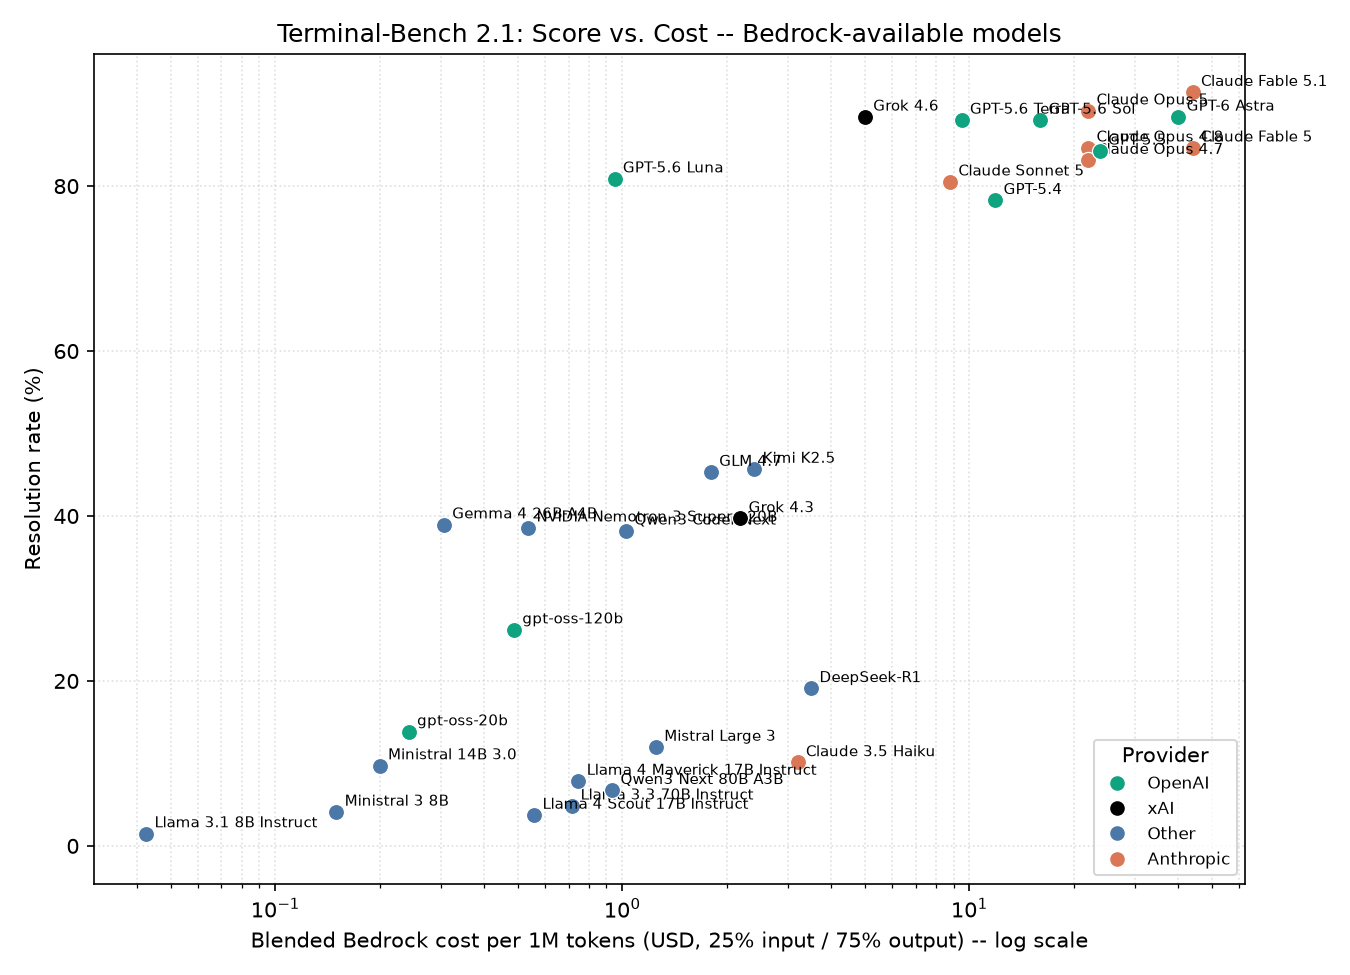
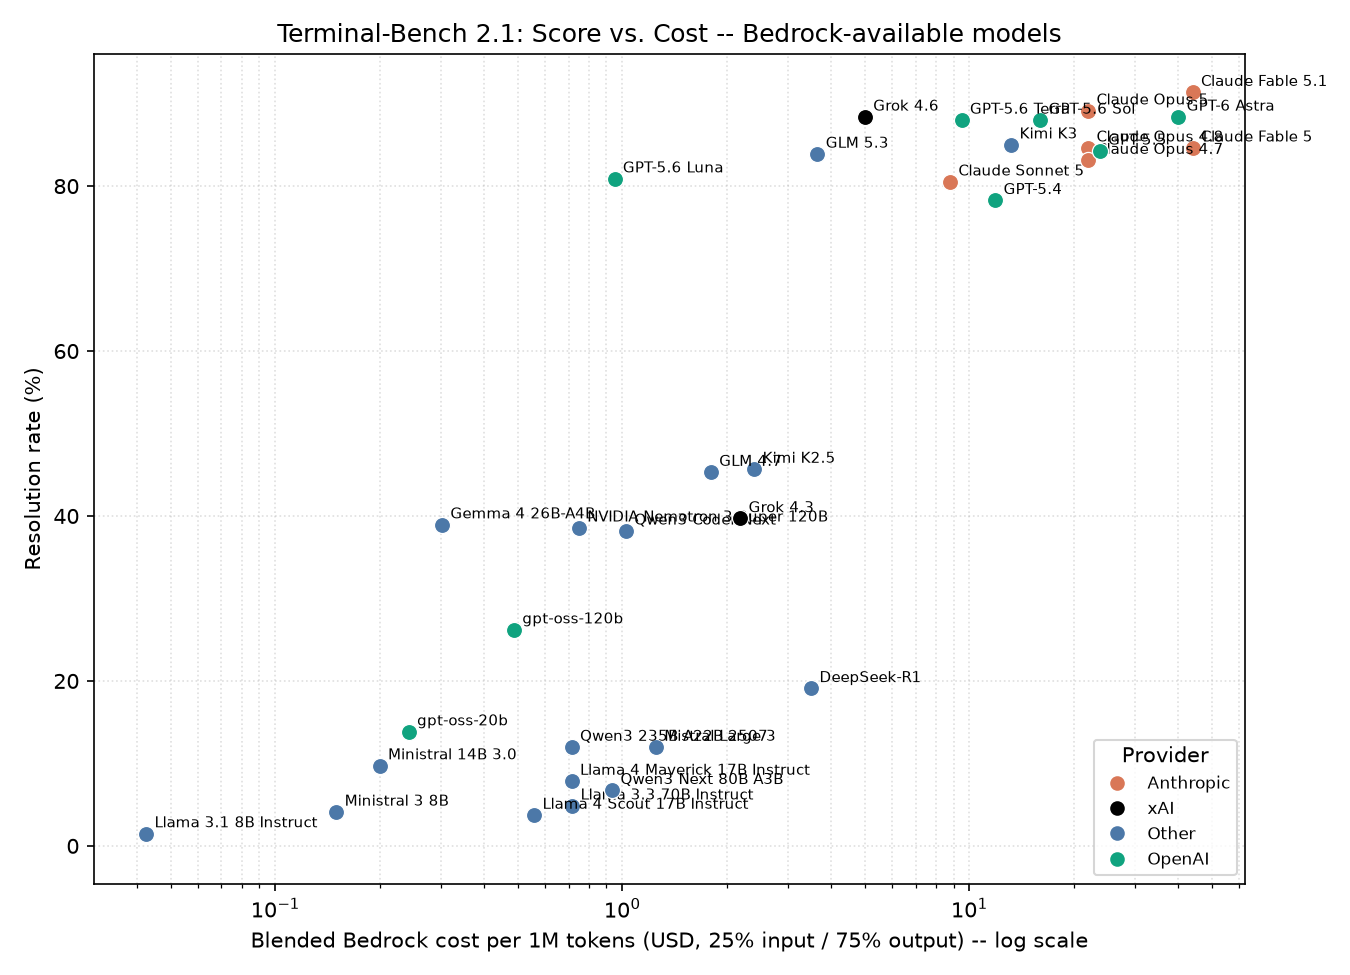
AI models: Update benchmark figs.

diff --git a/README.md b/README.md
@@ -154,6 +154,37 @@ mqdel --queued --dry-run
 mqdel --all --dry-run
 ```
 
+# mqinteractive
+
+Start an interactive PBS session with `mqinteractive` (8 CPUs, 32GB RAM),
+`mqinteractive half` (4 CPUs, 16GB RAM), or `mqinteractive gpu`.
+
+If Codex arrow keys insert text or mouse movements insert characters, run
+Codex inside `tmux` **after entering the interactive job**:
+
+```bash
+mqinteractive half
+# Once the compute-node shell opens:
+tmux new-session -c "$PWD" 'codex'
+```
+
+PBS interactive input can split an escape sequence across reads. On Aquarius,
+a single Up key (`ESC [ A`) arrived as `ESC`, then `[ A` about 0.6 ms later.
+Codex 0.161.0 interpreted a Left key as literal `[D` and a mouse-motion report
+as literal `[<35;10;10M`. Running Codex inside tmux restored cursor movement
+and prevented mouse reports from entering the prompt in the same PBS job.
+`--no-alt-screen` alone did not fix the problem.
+
+If Codex's sandbox also fails with a permission error creating its temporary
+directory, give Codex a writable temporary directory before starting it:
+
+```bash
+mkdir -p .tmp
+tmux new-session -c "$PWD" 'TMPDIR="$PWD/.tmp" codex'
+```
+
+Exit Codex when finished, then exit the PBS shell to release the allocation.
+
 # mqstat
 To view useful usage statistics (i.e. the percentage of microbiome queue CPUs which are currently in-use/available) simply type `mqstat`. Example output:
 ```
